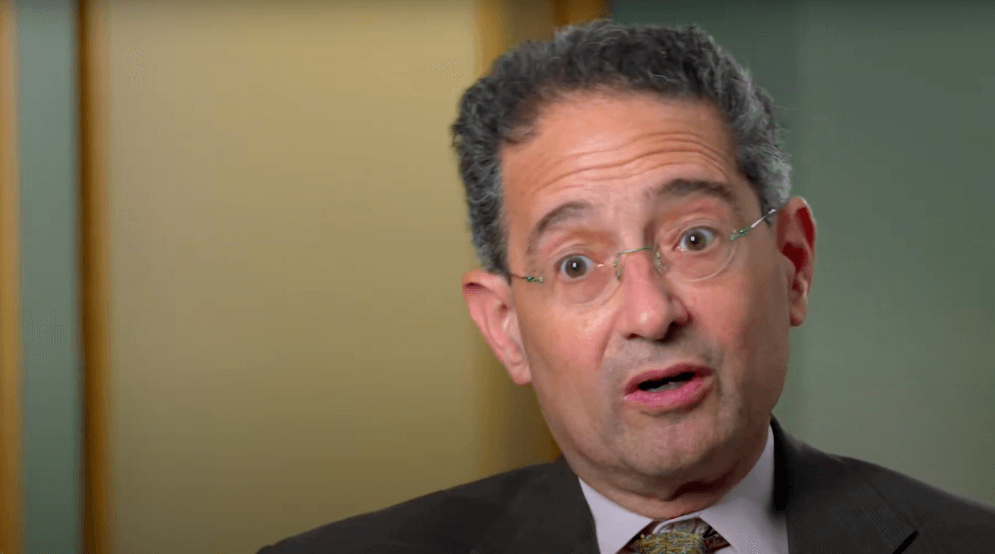
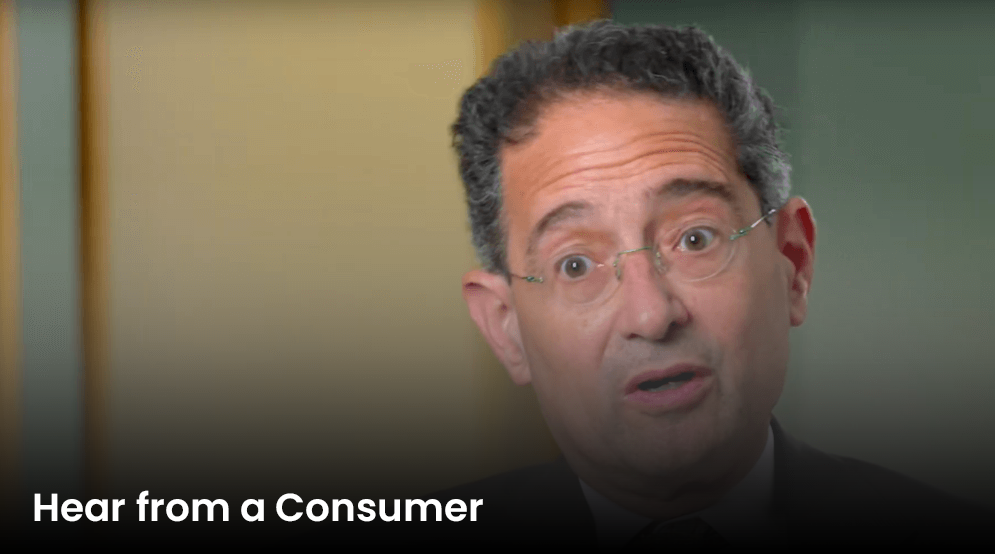
116 [Videos]

diff --git a/index.html b/index.html
@@ -311,7 +311,7 @@
 
                 </div>
 
-                <h5 class="mobile-1000"><b>Hear from an Audiologist</b></h5>
+                <!-- <h5 class="mobile-1000"><b>Hear from an Audiologist</b></h5> -->
               </div>
             </div>
             <div class="col-md-6">
@@ -320,7 +320,7 @@
 
                 </div>
 
-                <h5 class="mobile-1000"><b>Hear from a Consumer</b></h5>
+                <!-- <h5 class="mobile-1000"><b>Hear from a Consumer</b></h5> -->
               </div>
             </div>
 
